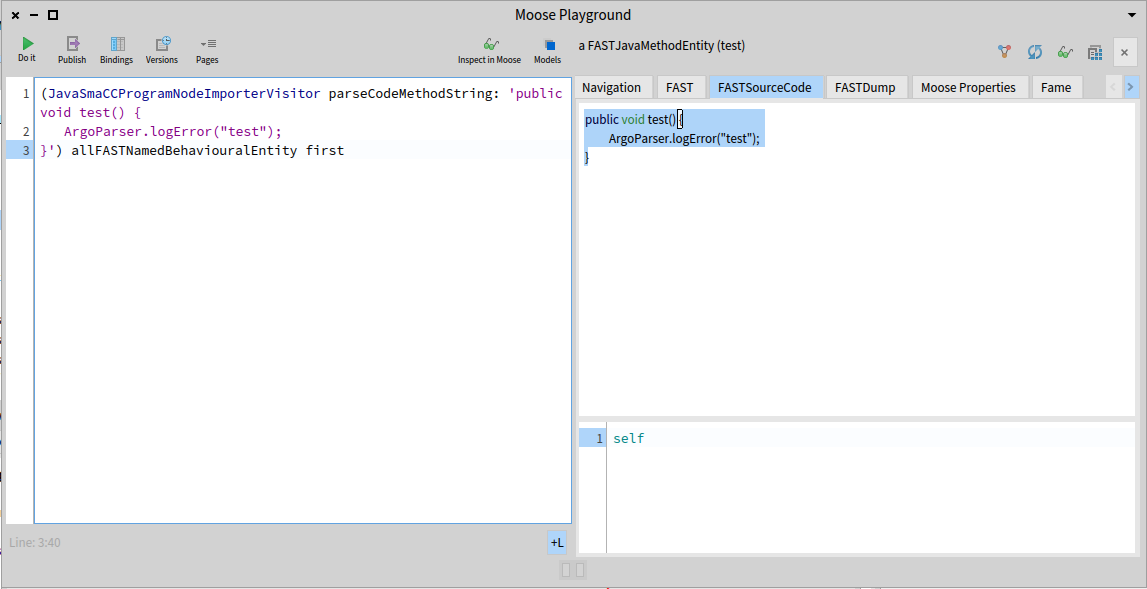
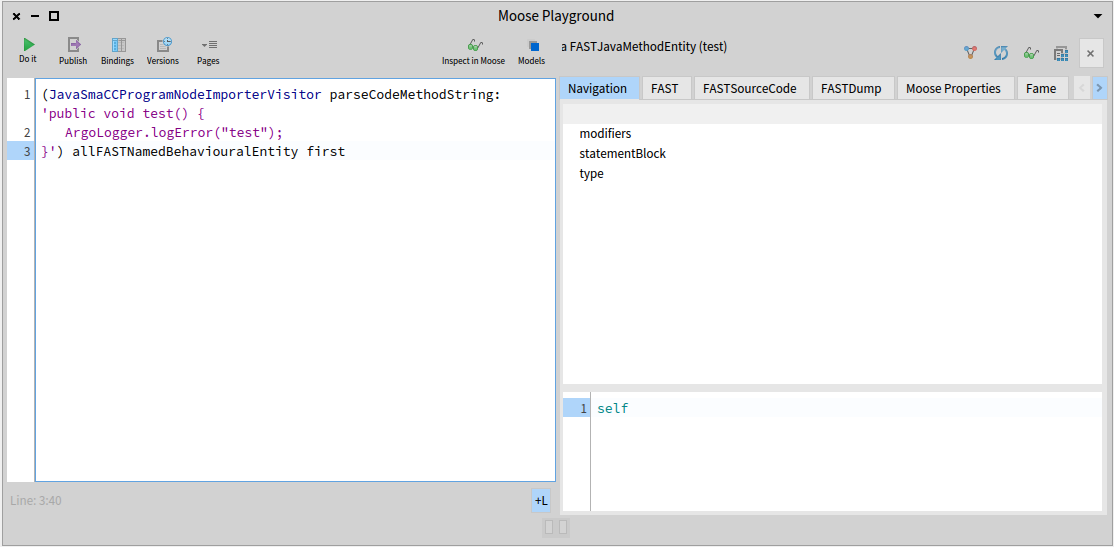
blogpost 1 et 2 complets

Changed region(s): [[0.0, 0.0, 1.0, 0.9324], [0.4883, 0.6837, 1.0, 0.777], [0.5189, 0.9324, 1.0, 0.9634]]

diff --git a/_drafts/2024-04-14-transformation-second.md b/_drafts/2024-04-14-transformation-second.md
@@ -19,7 +19,7 @@ As this blog post follows what was discussed and built in the first one of this 
 
 # Tools to import
 
-For this blogpost, we will have to import a tool library, [FAST-Java-Tools](https://github.com/moosetechnology/FAST-Java-Tools), which contains several tools to use on FASTs for Java entities. It also contains practical tools to build transformation tools! 
+For this blog post, we will have to import a tool library, [FAST-Java-Tools](https://github.com/moosetechnology/FAST-Java-Tools), which contains several tools to use on FASTs for Java entities. It also contains practical tools to build transformation tools! 
 To load the project, execute this command in a Playground :
 ```smalltalk
 Metacello new
@@ -30,7 +30,7 @@ Metacello new
 
 Loading it will automatically load the FAST-Java repository. Carrefour and MoTion (which were used in the previous post) are still necessary, so if you are starting from a clean image, you will need them as well.
 
-Note : The dependencies of those projects might not import in the same way, so you should make sure in Iceberg that the packages are properly loaded, just in case.
+Note : The dependencies of those projects might not be imported in the same way, so you should make sure in Iceberg that all the packages are properly loaded, just in case.
 
 # Copying the (F)ASTs to transform
 
@@ -38,7 +38,7 @@ With our import done, we are ready to get to work! :smile:
 To create our transformation, we will modify the FAST of each candidate method for our transformation, and this modified FAST will then be generated into source code that we will be able to inject into the actual source files. Therefore, our next step is modifying the FASTs of our methods.  
 Hovewer, we will begin by making a copy of said FAST, to insure that our transformation will not modify the actual original model of our method. If that happens, we will still be able to run Carrefour on our method again (using the message `generateFastAndBind`) but it is better to avoid that scenario. If we have a bug on our tool and the FAST of many methods ends up being modified, then re-calculating and binding every FAST will be a big waste of time. Making a copy allows us to make the same actions, but ensures that our model remains untouched.  
 
-To create a copy, we have a visitor that fortunately does all the job for us! Using this simple command will give you an FAST copy :
+To create a copy, we have a visitor that fortunately does all the job for us! Using this simple command will give you a FAST copy :
 
 ```smalltalk
 FASTJavaCopyVisitor new copy: aFASTMethod
@@ -48,6 +48,7 @@ However, to make things even easier, we will use an already made wrapper that wi
 - The Famix entity of that method
 - The original FAST
 - The copied (transformed) FAST  
+
 This wrapper also has collections to store specific nodes, but patience, we will see how to use these in the next blog post! :wink:
 
 For now, let's add a method to create that wrapper on a collection of candidate methods :
@@ -91,18 +92,22 @@ The other one, `transformMethod:`, is the next step in this transformation journ
 
 Therefore, the first thing to do is pretty obvious. We need to build a receiver node, for the `ArgoLogger` class. This transformation use case is pretty easy, so the node to create is always the same and is a pretty basic node.  
 
-We could in this case simply build this node "manually" in a method :
+We can in this case simply build this node "manually" in a method :
 
 ```smalltalk
 createNewReceiverNode
 
 	^ FASTJavaIdentifier new
-		  name: 'ArgoParser';
+		  name: 'ArgoLogger';
 		  yourself
 ```
 
 Hovewer, this option is not possible for every use case. Sometimes the node to create will be dependent on the context (the name of an identifier, method or variable might change), or we might have to create more complex nodes, composed of several nodes.  
-To help us in this task, we turn to... (TODO when the DSL is modified and integrated?)
+In order to create those more complex nodes, one option is to parse the code using the parsing tool from the [FAST-Java](https://github.com/moosetechnology/FAST-JAVA) repository, the `JavaSmaCCProgramNodeImporterVisitor`, before inspecting the parsed result using the `FASTDump` view.  
+
+!["Inspecting with FASTDump"](/img/posts/2024-04-15-transformation-second/inspecting-fast-dump.png)
+
+Using this view of the inspector then enable us to get the node or tree that we seek for our transformation and copy paste the code to create it in a method for our tool to use it when needed. 
 
 # Adding the new receiver node to (F)ASTs 
 
@@ -119,19 +124,19 @@ transformMethod: aJavaMethodWrapper
 	methodInvocationNode receiver: self createNewReceiverNode
 ```
 
-There are two things worth saying after making this method. First of all, and hopefully without boring my readers by repeating this over and over... This is a very simple transformation use case!  
+There are two things worth saying after making this method. First of all, and hopefully without boring you by repeating this over and over... This is a very simple transformation use case!  
 As you can see, the only thing we do is using the `receiver:` setter on the appropriate node. Depending on the kind of edit that you want to apply on a method, you might need to experiment a bit and read the commentaries and method list of the classes of the nodes you are trying to edit.  
-To experiment, one way is inspecting one of the FAST method that you wish to transform, to find the nodes you need to locate and transform, then go and read the class documentation and method list of the types of those nodes.  
-Another fun way to do so involves the Playground and a little parsing tool from the [FAST-Java](https://github.com/moosetechnology/FAST-JAVA) repository, the `JavaSmaCCProgramNodeImporterVisitor`.
+To experiment, one way is inspecting one of the FAST method that you wish to transform, to find the nodes you need to locate and transform, then go and read the class documentation and method list of the types of those nodes to find the appropriate setters you need to use.  
+Another fun way to do so involves the Playground and using once again the parsing tool used in the previous section to use the `FASTDump` view of the Moose Inspector.
 
 !["Parsing a method"](/img/posts/2024-04-15-transformation-second/parsing-method.png)
 
-Using this little code snippet, you can parse a Java method and inspect its FAST. So, copy the method you need to transform, inspect it, then transform this method manually, and inspect it again! It's an easy way to start the work towards building a transformation tool. :smile:  
+Using this little code snippet, you can parse a Java method and inspect its FAST. So, copy the method you need to transform, inspect it, then transform the code of this method manually, then parse it and inspect it again! It's an easy way to start the work towards building a transformation tool. :smile:  
 
 The second thing to notice, is the use of MoTion and not Carrefour. As we now modify a copy of a FAST, it is easier to run the MoTion query on it to get the node we are looking for right away, rather then go through the original Famix invocation.  
-Hovewer, it is still doable, as the original and copied FAST nodes both store their counterpart in an attribute slot. We can see this if we add a breakpoint in `transformMethod:` and execute a little command :  
+Hovewer, it is still doable, as the original and copied FAST nodes both store their counterpart in an attribute slot. We can see this by inspecting one of the fast methods in a wrapper resulting from our transformation (look at the inspected slots and `mooseID` of each object).  
 
-(TODO : adding a debugger screenshot to show that the original and copied nodes know their counterparts)
+!["Inspecting an original and copy"](/img/posts/2024-04-15-transformation-second/original-and-copy-inspect.png)
 
 # Try it yourself!
 
@@ -140,7 +145,7 @@ Our class is now able to create wrappers for each candidate method containing a 
 
 Just like with the first post, feel free to now try the tool and methods that we created here in a Playground and experiment with the results, or the methods themselves!
 
-(TODO : Adding a screenshot with a playground opened and having executed the main method)
+!["Testing class"](/img/posts/2024-04-15-transformation-second/testing-class.png)
 
 The whole source code that was written in this blog post (and the previous one) is also available on that [repository](https://github.com/RomainDeg/Moose-BlogPost-Transformation).
 

diff --git a/_drafts/2024-04-01-transformation-first.md b/_drafts/2024-04-01-transformation-first.md
@@ -64,7 +64,7 @@ You will have to then load the `MoTion-Moose` package using Iceberg.
 Finally done with explainations and setup! :smile:  
 Let us start by creating a class with a `model` instance variable, accessors, and add a class side initializer method for ease of use:
 
-!["Creating our class"](/img/posts/2024-04-01-transformation-first/creating-class.png)
+!["Creating our class"](/img/posts/2024-04-01-transformation-first/creating-class.PNG)
 
 ```smalltalk
 onModel: aMooseModel
@@ -91,6 +91,9 @@ fetchLogErrorMethodInvocations
 		  m incomingInvocations ]
 ```
 
+Using [MooseQuery](https://moosequery.ferlicot.fr/userdocumentation.html), you should be able to find any Famix entities you are seeking.  
+From those Famix entities, we want to get the FAST nodes that we need to transform. We will look at two different methods to do so.
+
 # Using Carrefour
 
 In this context, Carrefour is the perfect tool to use to find the nodes we want to transform in the FAST of our methods.  
@@ -111,7 +114,7 @@ And finally, a method that returns a list with every node we have to transform :
 fetchAllFastNodesUsingCarrefour
 
 	^ self fetchLogErrorMethodInvocations collect: [ :mi | 
-		  self motionQueryForFastMethod: mi sender fast ]
+		  self fetchFastNodeForFamixInvocation: mi ]
 ```
 
 And just like that, we now have the complete list of FAST nodes to transform!
@@ -125,6 +128,8 @@ In those cases, a good way to make things easier is to divide the logic of this 
 Making queries on the Famix model remains a very reliable way to find the candidates methods, but then what about the nodes inside the AST of these methods?
 Methods can be quite complex (50 lines of code, 100, more...) and the resulting AST is huge. Finding the right node(s) in such AST is difficult.
 That's where MoTion comes in. In order to find the nodes we are looking for, we can define patterns that describe those nodes, and the path to follow through the FAST to be able to reach those nodes.  
+
+MoTion is a powerful tool, allowing us to find specific items within a graph through consice patterns describing the objects we are looking for and the path in the graph used to reach them. Hovewer, it does have a very specific syntax that must be looked through before starting making our own patterns. Thankfully, everything is well documented and with examples (one of those being another exemple for FAST Java) on the repository of [MoTion](https://github.com/alesshosry/MoTion) (look at the README!). 
 
 But enough description. Time to code! :smile:
 ```smalltalk
@@ -157,8 +162,7 @@ motionQueryForFastMethod: aFASTJavaMethodEntity
 		         for: aFASTJavaMethodEntity.
 
 	^ query first at: 'logErrorInvocation'
-```
-MoTion is a powerful tool, allowing us to find specific items within a graph through consice patterns describing the objects we are looking for and the path in the graph used to reach them. Hovewer, it does have a very specific syntax that must be looked through before starting making our own patterns. Thankfully, everything is well documented and with examples (one of those being another exemple for FAST Java) on the repository of [MoTion](https://github.com/alesshosry/MoTion) (look at the README!).  
+``` 
 
 Now, to complete the use of our pattern, let's make a final method that will fetch every node we need to transform :
 ```smalltalk
